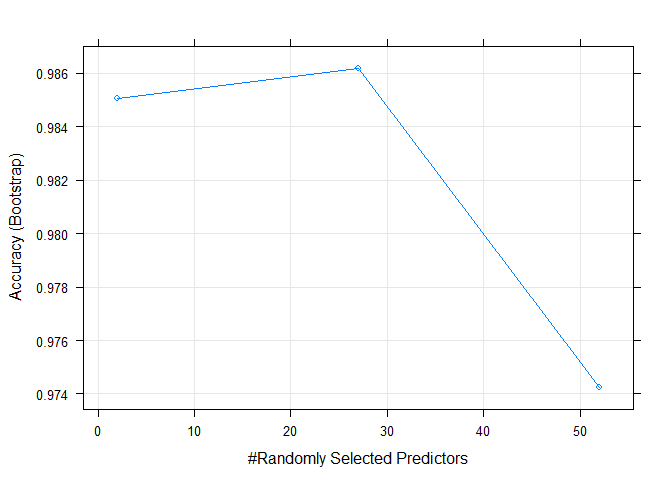
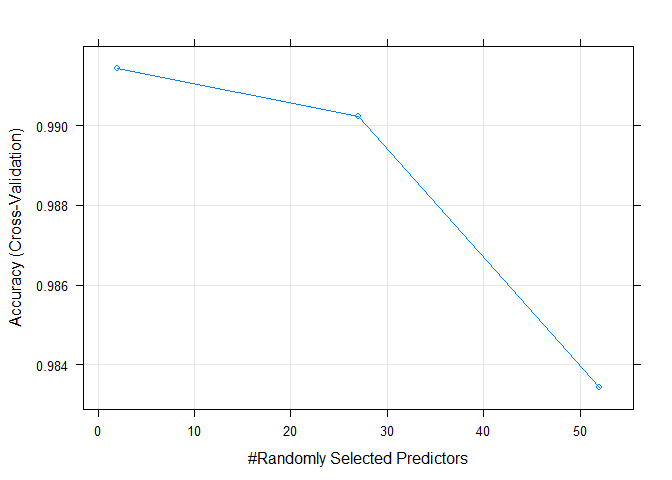
Updated RMD with RF2 model and updated intro section

diff --git a/Practical.Machine.Learning.html b/Practical.Machine.Learning.html
@@ -70,7 +70,17 @@ img {
 
 <div id="introduction" class="section level1">
 <h1>Introduction</h1>
-<p>Using devices such as Jawbone Up, Nike FuelBand, and Fitbit it is now possible to collect a large amount of data about personal activity relatively inexpensively. These type of devices are part of the quantified self movement – a group of enthusiasts who take measurements about themselves regularly to improve their health, to find patterns in their behavior, or because they are tech geeks. One thing that people regularly do is quantify how much of a particular activity they do, but they rarely quantify how well they do it. In this project, your goal will be to use data from accelerometers on the belt, forearm, arm, and dumbell of 6 participants. They were asked to perform barbell lifts correctly and incorrectly in 5 different ways. More information is available from the website here: <a href="http://groupware.les.inf.puc-rio.br/har" class="uri">http://groupware.les.inf.puc-rio.br/har</a></p>
+<p>In this project, the goal is to use data from accelerometers on the belt, forearm, arm, and dumbbell of 6 participants that were asked to perform barbell lifts correctly and incorrectly in 5 different ways and predict the manner in which they did the exercise.</p>
+<p>The methods used by the participants to perform one set of 10 repetitions of the Unilateral Dumbbell Biceps Curl were</p>
+<ul>
+<li><p>Exactly according to the specification (Class A)</p></li>
+<li><p>Throwing the elbows to the front (Class B)</p></li>
+<li><p>Lifting the dumbbell only halfway (Class C)</p></li>
+<li><p>Lowering the dumbbell only halfway (Class D)</p></li>
+<li><p>Throwing the hips to the front (Class E).</p></li>
+</ul>
+<p>It is the class of method used that will be predicted.</p>
+<p>More information on this data set is available from the website here: <a href="http://groupware.les.inf.puc-rio.br/har" class="uri">http://groupware.les.inf.puc-rio.br/har</a></p>
 </div>
 <div id="load-and-clean-the-data" class="section level1">
 <h1>Load and Clean The Data</h1>
@@ -100,12 +110,12 @@ train &lt;- train[, keep.cols]</code></pre>
 <div id="description-of-how-final-model-is-built" class="section level2">
 <h2>Description of How Final Model Is Built</h2>
 <ol style="list-style-type: decimal">
-<li><p>Split the train data into train and test partitions.</p></li>
-<li><p>Run a number of models using the train partion.</p></li>
+<li><p>Slice the train data into train and test partitions.</p></li>
+<li><p>Run a number of models using the train partition.</p></li>
 </ol>
 <ul>
 <li><p>Linear Discriminant Analysis (LDA) with Cross Validation.</p></li>
-<li><p>Random Forest.</p></li>
+<li><p>Random Forest with Cross Validation.</p></li>
 </ul>
 <ol start="3" style="list-style-type: decimal">
 <li><p>For each model, use the test partition to determine the accuracy and out of sample error.</p></li>
@@ -163,11 +173,10 @@ cf.lda</code></pre>
 lda.out.of.sample.error &lt;- as.numeric(1 - lda.accuracy)  # LDA Out Of Sample error</code></pre>
 <p>From the confusion matrix we can see that the accuracy of this lda model is 0.698 which implies that the <strong>out of sample error</strong> is 0.302.</p>
 </div>
-<div id="model-2-random-forest" class="section level2">
-<h2>Model 2 : Random Forest</h2>
+<div id="model-2-random-forest-with-cross-validation" class="section level2">
+<h2>Model 2 : Random Forest with Cross Validation</h2>
 <p>Next a Random Forest model is tried.</p>
-<p><strong>Note: </strong> For Random Forest models, <strong>Cross Validation</strong> is not required.</p>
-<pre class="r"><code>rfFit &lt;- train(classe~ .,data=train.data,method=&quot;rf&quot;,prox=TRUE</code></pre>
+<pre class="r"><code>rfFit &lt;- train(classe~ .,data=train.data,method=&quot;rf&quot;, trControl = trainControl(method=&quot;cv&quot;), number=3)</code></pre>
 <p>To test the accuracy of the prediction, the test subset is used.</p>
 <pre class="r"><code>prediction.rf &lt;- predict(rfFit, test.data)
 cf.rf &lt;- confusionMatrix(prediction.rf, test.data$classe)  # Determine accuracy of model
@@ -176,36 +185,36 @@ cf.rf </code></pre>
 ## 
 ##           Reference
 ## Prediction    A    B    C    D    E
-##          A 2232    6    0    0    0
-##          B    0 1511    1    0    0
-##          C    0    1 1366    9    0
-##          D    0    0    1 1276    0
-##          E    0    0    0    1 1442
+##          A 2231    6    0    0    0
+##          B    1 1510    5    0    0
+##          C    0    2 1361   18    1
+##          D    0    0    2 1266    0
+##          E    0    0    0    2 1441
 ## 
 ## Overall Statistics
 ##                                           
-##                Accuracy : 0.9976          
-##                  95% CI : (0.9962, 0.9985)
+##                Accuracy : 0.9953          
+##                  95% CI : (0.9935, 0.9967)
 ##     No Information Rate : 0.2845          
 ##     P-Value [Acc &gt; NIR] : &lt; 2.2e-16       
 ##                                           
-##                   Kappa : 0.9969          
+##                   Kappa : 0.994           
 ##  Mcnemar's Test P-Value : NA              
 ## 
 ## Statistics by Class:
 ## 
 ##                      Class: A Class: B Class: C Class: D Class: E
-## Sensitivity            1.0000   0.9954   0.9985   0.9922   1.0000
-## Specificity            0.9989   0.9998   0.9985   0.9998   0.9998
-## Pos Pred Value         0.9973   0.9993   0.9927   0.9992   0.9993
-## Neg Pred Value         1.0000   0.9989   0.9997   0.9985   1.0000
+## Sensitivity            0.9996   0.9947   0.9949   0.9844   0.9993
+## Specificity            0.9989   0.9991   0.9968   0.9997   0.9997
+## Pos Pred Value         0.9973   0.9960   0.9848   0.9984   0.9986
+## Neg Pred Value         0.9998   0.9987   0.9989   0.9970   0.9998
 ## Prevalence             0.2845   0.1935   0.1744   0.1639   0.1838
-## Detection Rate         0.2845   0.1926   0.1741   0.1626   0.1838
-## Detection Prevalence   0.2852   0.1927   0.1754   0.1628   0.1839
-## Balanced Accuracy      0.9995   0.9976   0.9985   0.9960   0.9999</code></pre>
+## Detection Rate         0.2843   0.1925   0.1735   0.1614   0.1837
+## Detection Prevalence   0.2851   0.1932   0.1761   0.1616   0.1839
+## Balanced Accuracy      0.9992   0.9969   0.9958   0.9921   0.9995</code></pre>
 <pre class="r"><code>rf.accuracy &lt;- round(cf.rf$overall[&quot;Accuracy&quot;], 3)  # RF Accuracy
 rf.out.of.sample.error &lt;- as.numeric(1 - rf.accuracy)  # RF Out Of Sample Error</code></pre>
-<p>From the confusion matrix we can see that the accuracy of this lda model is 0.998 which implies that the <strong>out of sample error</strong> is 0.002.</p>
+<p>From the confusion matrix we can see that the accuracy of this lda model is 0.995 which implies that the <strong>out of sample error</strong> is 0.005.</p>
 </div>
 <div id="model-selection-1" class="section level2">
 <h2>Model Selection</h2>
@@ -216,7 +225,7 @@ rf.out.of.sample.error &lt;- as.numeric(1 - rf.accuracy)  # RF Out Of Sample Err
 <h1>Prediction</h1>
 <p>To make the predictions, the original test set is loaded.</p>
 <pre class="r"><code>test.raw &lt;- read.csv(&quot;data/pml-testing.csv&quot;)</code></pre>
-<p>This test set must be modifed to have a similar format to the training data.</p>
+<p>This test set must be modified to have a similar format to the training data.</p>
 <pre class="r"><code>keep.cols &lt;- names(train[, -53]) # drop the classe variable 
 keep.cols[53] &lt;- &quot;problem_id&quot;  # add in a problem_id column
 test &lt;- test.raw[, keep.cols]  # Match the columns of the training set and drop the others</code></pre>
@@ -229,7 +238,7 @@ answers</code></pre>
 <div id="appendix" class="section level1">
 <h1>Appendix</h1>
 <pre class="r"><code>plot(rfFit)</code></pre>
[2 lines of base64/hex data omitted]
 </div>
 
 

diff --git a/Practical.Machine.Learning.md b/Practical.Machine.Learning.md
@@ -6,7 +6,23 @@ October 13, 2015
 
 
 # Introduction
-Using devices such as Jawbone Up, Nike FuelBand, and Fitbit it is now possible to collect a large amount of data about personal activity relatively inexpensively. These type of devices are part of the quantified self movement – a group of enthusiasts who take measurements about themselves regularly to improve their health, to find patterns in their behavior, or because they are tech geeks. One thing that people regularly do is quantify how much of a particular activity they do, but they rarely quantify how well they do it. In this project, your goal will be to use data from accelerometers on the belt, forearm, arm, and dumbell of 6 participants. They were asked to perform barbell lifts correctly and incorrectly in 5 different ways. More information is available from the website here: http://groupware.les.inf.puc-rio.br/har
+In this project, the goal is to use data from accelerometers on the belt, forearm, arm, and dumbbell of 6 participants that were asked to perform barbell lifts correctly and incorrectly in 5 different ways and predict the manner in which they did the exercise. 
+
+The methods used by the participants to perform one set of 10 repetitions of the Unilateral Dumbbell Biceps Curl were
+
+* Exactly according to the specification (Class A)
+
+* Throwing the elbows to the front (Class B) 
+
+* Lifting the dumbbell only halfway (Class C) 
+
+* Lowering the dumbbell only halfway (Class D) 
+
+* Throwing the hips to the front (Class E).
+
+It is the class of method used that will be predicted.
+
+More information on this data set is available from the website here: http://groupware.les.inf.puc-rio.br/har
 
 # Load and Clean The Data
 **Note: ** The data is assumed to be located in a sub folder named "data".
@@ -61,13 +77,13 @@ train <- train[, keep.cols]
 
 ## Description of How Final Model Is Built
 
-1. Split the train data into train and test partitions.
+1. Slice the train data into train and test partitions.
 
-2. Run a number of models using the train partion.
+2. Run a number of models using the train partition.
 
   * Linear Discriminant Analysis (LDA) with Cross Validation.
   
-  * Random Forest.
+  * Random Forest with Cross Validation.
 
 3. For each model, use the test partition to determine the accuracy and out of sample error.
 
@@ -138,15 +154,13 @@ lda.out.of.sample.error <- as.numeric(1 - lda.accuracy)  # LDA Out Of Sample err
 
 From the confusion matrix we can see that the accuracy of this lda model is 0.698 which implies that the **out of sample error** is 0.302. 
 
-## Model 2 : Random Forest
+## Model 2 : Random Forest with Cross Validation
 
 Next a Random Forest model is tried.
 
-**Note: ** For Random Forest models, **Cross Validation** is not required.
-
 
 ```r
-rfFit <- train(classe~ .,data=train.data,method="rf",prox=TRUE
+rfFit <- train(classe~ .,data=train.data,method="rf", trControl = trainControl(method="cv"), number=3)
 ```
 
 
@@ -165,33 +179,33 @@ cf.rf
 ## 
 ##           Reference
 ## Prediction    A    B    C    D    E
-##          A 2232    6    0    0    0
-##          B    0 1511    1    0    0
-##          C    0    1 1366    9    0
-##          D    0    0    1 1276    0
-##          E    0    0    0    1 1442
+##          A 2231    6    0    0    0
+##          B    1 1510    5    0    0
+##          C    0    2 1361   18    1
+##          D    0    0    2 1266    0
+##          E    0    0    0    2 1441
 ## 
 ## Overall Statistics
 ##                                           
-##                Accuracy : 0.9976          
-##                  95% CI : (0.9962, 0.9985)
+##                Accuracy : 0.9953          
+##                  95% CI : (0.9935, 0.9967)
 ##     No Information Rate : 0.2845          
 ##     P-Value [Acc > NIR] : < 2.2e-16       
 ##                                           
-##                   Kappa : 0.9969          
+##                   Kappa : 0.994           
 ##  Mcnemar's Test P-Value : NA              
 ## 
 ## Statistics by Class:
 ## 
 ##                      Class: A Class: B Class: C Class: D Class: E
-## Sensitivity            1.0000   0.9954   0.9985   0.9922   1.0000
-## Specificity            0.9989   0.9998   0.9985   0.9998   0.9998
-## Pos Pred Value         0.9973   0.9993   0.9927   0.9992   0.9993
-## Neg Pred Value         1.0000   0.9989   0.9997   0.9985   1.0000
+## Sensitivity            0.9996   0.9947   0.9949   0.9844   0.9993
+## Specificity            0.9989   0.9991   0.9968   0.9997   0.9997
+## Pos Pred Value         0.9973   0.9960   0.9848   0.9984   0.9986
+## Neg Pred Value         0.9998   0.9987   0.9989   0.9970   0.9998
 ## Prevalence             0.2845   0.1935   0.1744   0.1639   0.1838
-## Detection Rate         0.2845   0.1926   0.1741   0.1626   0.1838
-## Detection Prevalence   0.2852   0.1927   0.1754   0.1628   0.1839
-## Balanced Accuracy      0.9995   0.9976   0.9985   0.9960   0.9999
+## Detection Rate         0.2843   0.1925   0.1735   0.1614   0.1837
+## Detection Prevalence   0.2851   0.1932   0.1761   0.1616   0.1839
+## Balanced Accuracy      0.9992   0.9969   0.9958   0.9921   0.9995
 ```
 
 ```r
@@ -199,7 +213,7 @@ rf.accuracy <- round(cf.rf$overall["Accuracy"], 3)  # RF Accuracy
 rf.out.of.sample.error <- as.numeric(1 - rf.accuracy)  # RF Out Of Sample Error
 ```
 
-From the confusion matrix we can see that the accuracy of this lda model is 0.998 which implies that the **out of sample error** is 0.002. 
+From the confusion matrix we can see that the accuracy of this lda model is 0.995 which implies that the **out of sample error** is 0.005. 
 
 ## Model Selection
 
@@ -213,7 +227,7 @@ To make the predictions, the original test set is loaded.
 test.raw <- read.csv("data/pml-testing.csv")
 ```
 
-This test set must be modifed to have a similar format to the training data.
+This test set must be modified to have a similar format to the training data.
 
 
 ```r
